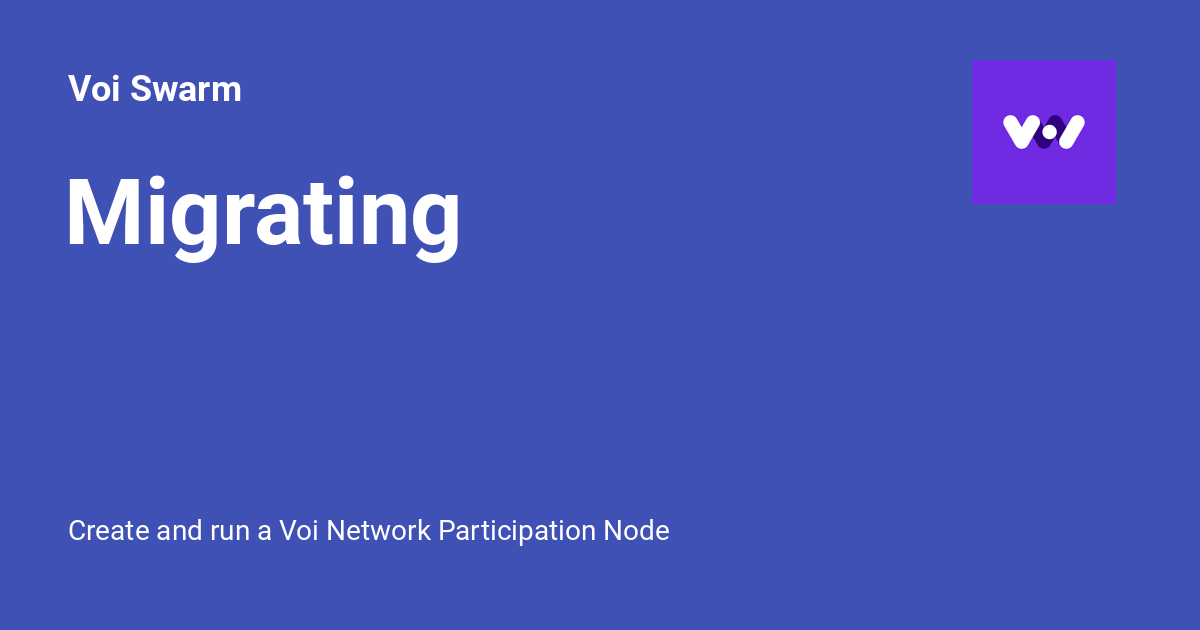
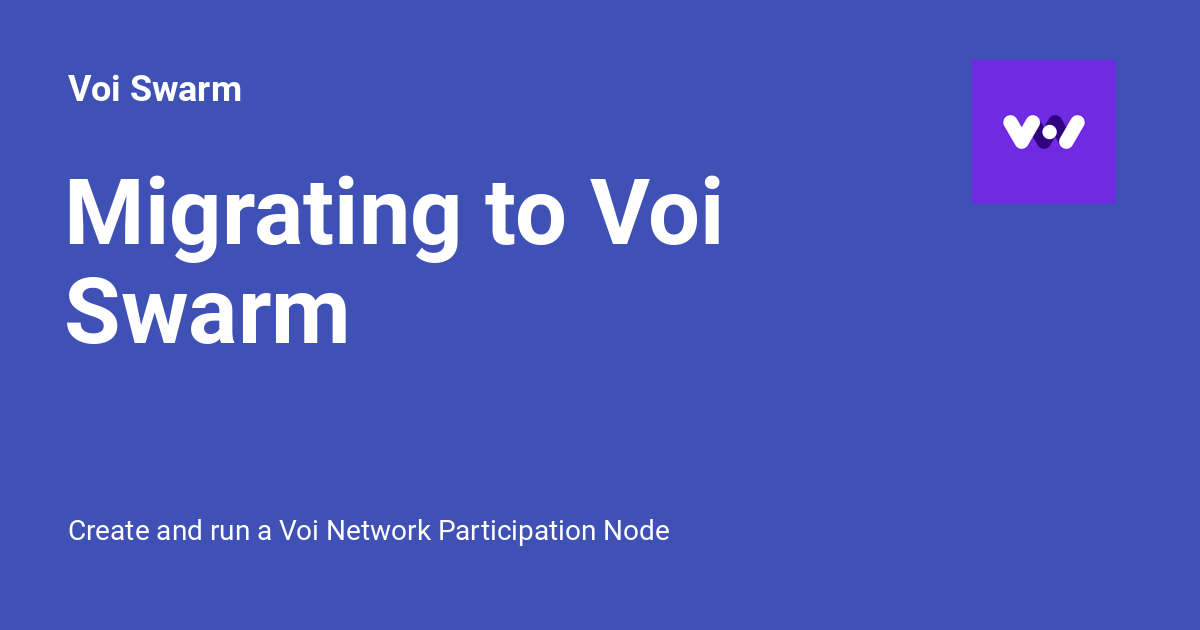
Deployed 7e640ff with MkDocs version: 1.5.3

Changed region(s): [[0.0308, 0.4222, 0.3083, 0.5429], [0.4008, 0.2714, 0.6167, 0.3921]]

diff --git a/migrating/index.html b/migrating/index.html
@@ -24,7 +24,7 @@
     
     
       
-        <title>Migrating - Voi Swarm</title>
+        <title>Migrating to Voi Swarm - Voi Swarm</title>
       
     
     
@@ -71,7 +71,7 @@
       
         <meta  property="og:type"  content="website" >
       
-        <meta  property="og:title"  content="Migrating - Voi Swarm" >
+        <meta  property="og:title"  content="Migrating to Voi Swarm - Voi Swarm" >
       
         <meta  property="og:description"  content="Create and run a Voi Network Participation Node" >
       
@@ -87,7 +87,7 @@
       
         <meta  name="twitter:card"  content="summary_large_image" >
       
-        <meta  name="twitter:title"  content="Migrating - Voi Swarm" >
+        <meta  name="twitter:title"  content="Migrating to Voi Swarm - Voi Swarm" >
       
         <meta  name="twitter:description"  content="Create and run a Voi Network Participation Node" >
       
@@ -147,7 +147,7 @@
         <div class="md-header__topic" data-md-component="header-topic">
           <span class="md-ellipsis">
             
-              Migrating
+              Migrating to Voi Swarm
             
           </span>
         </div>
@@ -769,7 +769,7 @@
           
   
   <span class="md-ellipsis">
-    Migrating
+    Migrating to Voi Swarm
   </span>
   
 
@@ -780,7 +780,7 @@
         
   
   <span class="md-ellipsis">
-    Migrating
+    Migrating to Voi Swarm
   </span>
   
 

diff --git a/404.html b/404.html
@@ -723,7 +723,7 @@
         
   
   <span class="md-ellipsis">
-    Migrating
+    Migrating to Voi Swarm
   </span>
   
 

diff --git a/cli-tools/index.html b/cli-tools/index.html
@@ -760,7 +760,7 @@
         
   
   <span class="md-ellipsis">
-    Migrating
+    Migrating to Voi Swarm
   </span>
   
 

diff --git a/getting-started/introduction/index.html b/getting-started/introduction/index.html
@@ -811,7 +811,7 @@
         
   
   <span class="md-ellipsis">
-    Migrating
+    Migrating to Voi Swarm
   </span>
   
 

diff --git a/index.html b/index.html
@@ -825,7 +825,7 @@
         
   
   <span class="md-ellipsis">
-    Migrating
+    Migrating to Voi Swarm
   </span>
   
 

diff --git a/installation/installation/index.html b/installation/installation/index.html
@@ -838,7 +838,7 @@
         
   
   <span class="md-ellipsis">
-    Migrating
+    Migrating to Voi Swarm
   </span>
   
 

diff --git a/installation/prerequisites/index.html b/installation/prerequisites/index.html
@@ -811,7 +811,7 @@
         
   
   <span class="md-ellipsis">
-    Migrating
+    Migrating to Voi Swarm
   </span>
   
 

diff --git a/installation/system-requirements/index.html b/installation/system-requirements/index.html
@@ -862,7 +862,7 @@
         
   
   <span class="md-ellipsis">
-    Migrating
+    Migrating to Voi Swarm
   </span>
   
 

diff --git a/installation/uninstall/index.html b/installation/uninstall/index.html
@@ -811,7 +811,7 @@
         
   
   <span class="md-ellipsis">
-    Migrating
+    Migrating to Voi Swarm
   </span>
   
 

diff --git a/notification-guides/pushbullet/index.html b/notification-guides/pushbullet/index.html
@@ -853,7 +853,7 @@
         
   
   <span class="md-ellipsis">
-    Migrating
+    Migrating to Voi Swarm
   </span>
   
 

diff --git a/operating/participation-keys/index.html b/operating/participation-keys/index.html
@@ -772,7 +772,7 @@
         
   
   <span class="md-ellipsis">
-    Migrating
+    Migrating to Voi Swarm
   </span>
   
 

diff --git a/operating/running-your-node/index.html b/operating/running-your-node/index.html
@@ -772,7 +772,7 @@
         
   
   <span class="md-ellipsis">
-    Migrating
+    Migrating to Voi Swarm
   </span>
   
 
